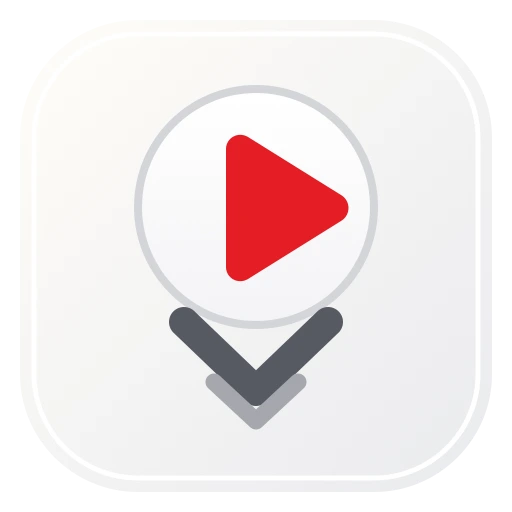
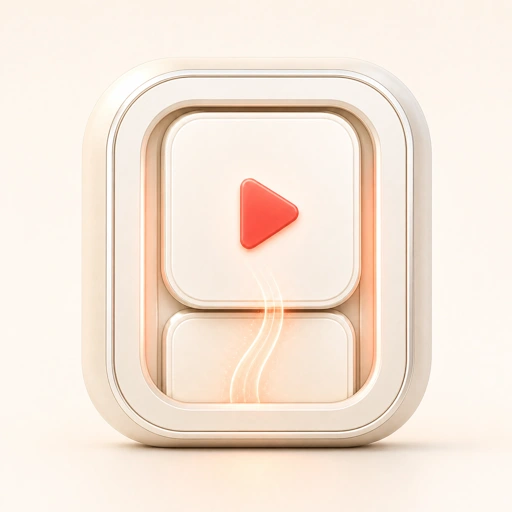
Refresh AutoShorts artwork for 0.1.2

diff --git a/app/data.ts b/app/data.ts
@@ -1143,10 +1143,10 @@ export const apps: AppData[] = [
       {
         name: "Chrome · 네이버 웨일",
         status: "공개",
-        detail: "0.1.1 · Manifest V3 · 압축해제 확장 설치",
+        detail: "0.1.2 · Manifest V3 · 압축해제 확장 설치",
         url: releaseDownloadPath("AutoShorts"),
         downloadLabel: "자동쇼츠 ZIP 다운로드",
[2 lines of base64/hex data omitted]
         availabilityNote: "네이버 웨일에서 자동 넘김 동작 확인",
       },
     ],
@@ -1157,13 +1157,13 @@ export const apps: AppData[] = [
       { title: "원할 때 한 번에 멈춤", body: "도구 모음의 자동쇼츠 아이콘을 눌러 자동 넘김을 바로 켜거나 끌 수 있고 선택은 브라우저 안에 기억됩니다." },
     ],
     guide: [
-      { title: "ZIP 내려받기", body: "공식 GitHub Release에서 AutoShorts-0.1.1.zip을 내려받아 원하는 폴더에 압축을 풉니다." },
+      { title: "ZIP 내려받기", body: "공식 GitHub Release에서 AutoShorts-0.1.2.zip을 내려받아 원하는 폴더에 압축을 풉니다." },
       { title: "확장 관리 열기", body: "Chrome은 chrome://extensions, 네이버 웨일은 whale://extensions를 주소창에 입력하고 개발자 모드를 켭니다." },
       { title: "폴더 불러오기", body: "압축해제된 확장 프로그램 불러오기를 누르고 압축을 푼 AutoShorts 폴더를 선택합니다." },
       { title: "Shorts 보기", body: "YouTube Shorts를 열면 자동 넘김이 켜진 상태로 시작합니다. 잠시 멈추려면 도구 모음의 자동쇼츠 아이콘을 누릅니다." },
     ],
     progress: [
-      { state: "done", title: "0.1.1 공개", body: "Chrome·네이버 웨일용 Manifest V3 확장에 밝고 친근한 새 로고를 적용하고 설치 ZIP의 다운로드 무결성을 확인했습니다." },
+      { state: "done", title: "0.1.2 공개", body: "아이보리·샴페인 톤의 새 앱 아이콘과 자동으로 이어지는 쇼츠를 표현한 제품 이미지를 적용하고 설치 ZIP의 다운로드 무결성을 확인했습니다." },
       { state: "done", title: "반복·연속 이동 검증", body: "반복 영상 종료, 같은 video 요소 재사용, YouTube 내부 Shorts 진입, 중복 이동 방지와 설정 저장 자동 테스트를 통과했습니다." },
       { state: "done", title: "네이버 웨일 동작 확인", body: "실제 네이버 웨일에 압축해제 확장으로 설치해 자동 넘김이 작동하는 것을 확인했습니다." },
     ],

diff --git a/app/releases.ts b/app/releases.ts
@@ -135,7 +135,7 @@ export const RELEASE_DOWNLOADS: Record<DownloadKey, ReleaseDownload> = {
     label: "AutoShorts",
     repo: "AutoShorts",
     assetPattern: /^AutoShorts-\d+\.\d+\.\d+\.zip$/i,
-    fallbackUrl: "https://github.com/armsone/AutoShorts/releases/download/v0.1.1/AutoShorts-0.1.1.zip",
+    fallbackUrl: "https://github.com/armsone/AutoShorts/releases/download/v0.1.2/AutoShorts-0.1.2.zip",
   },
 };
 
